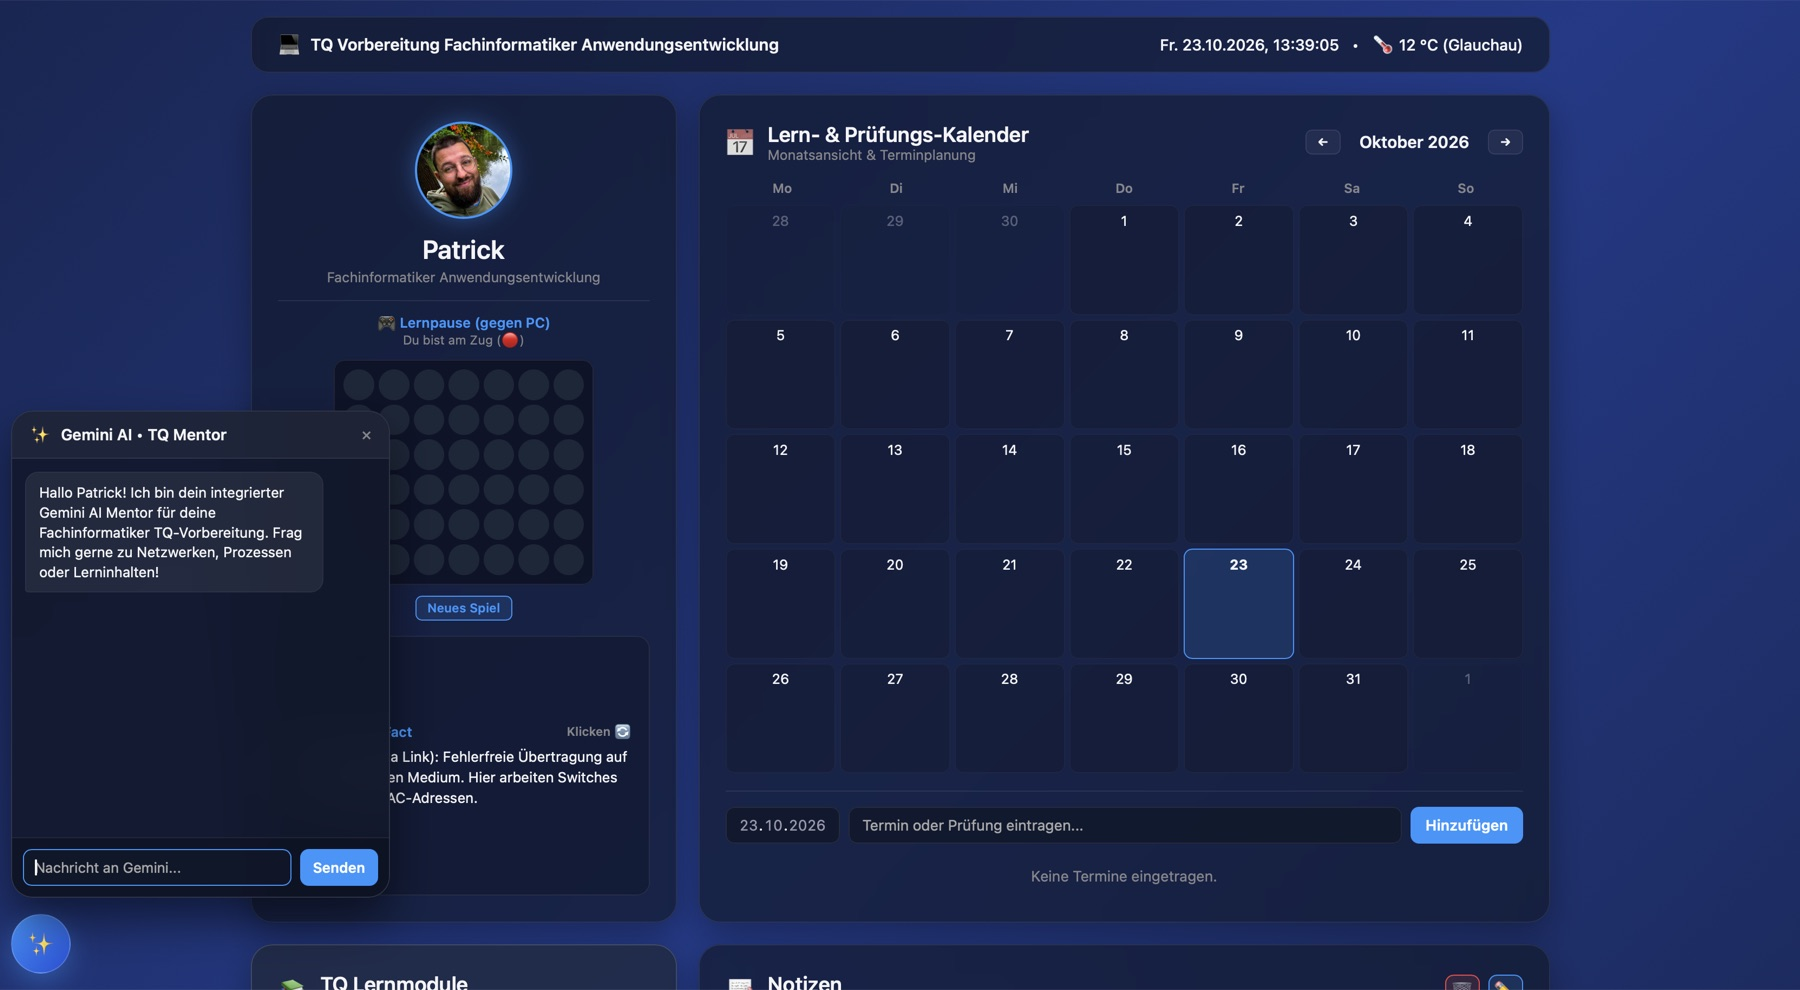
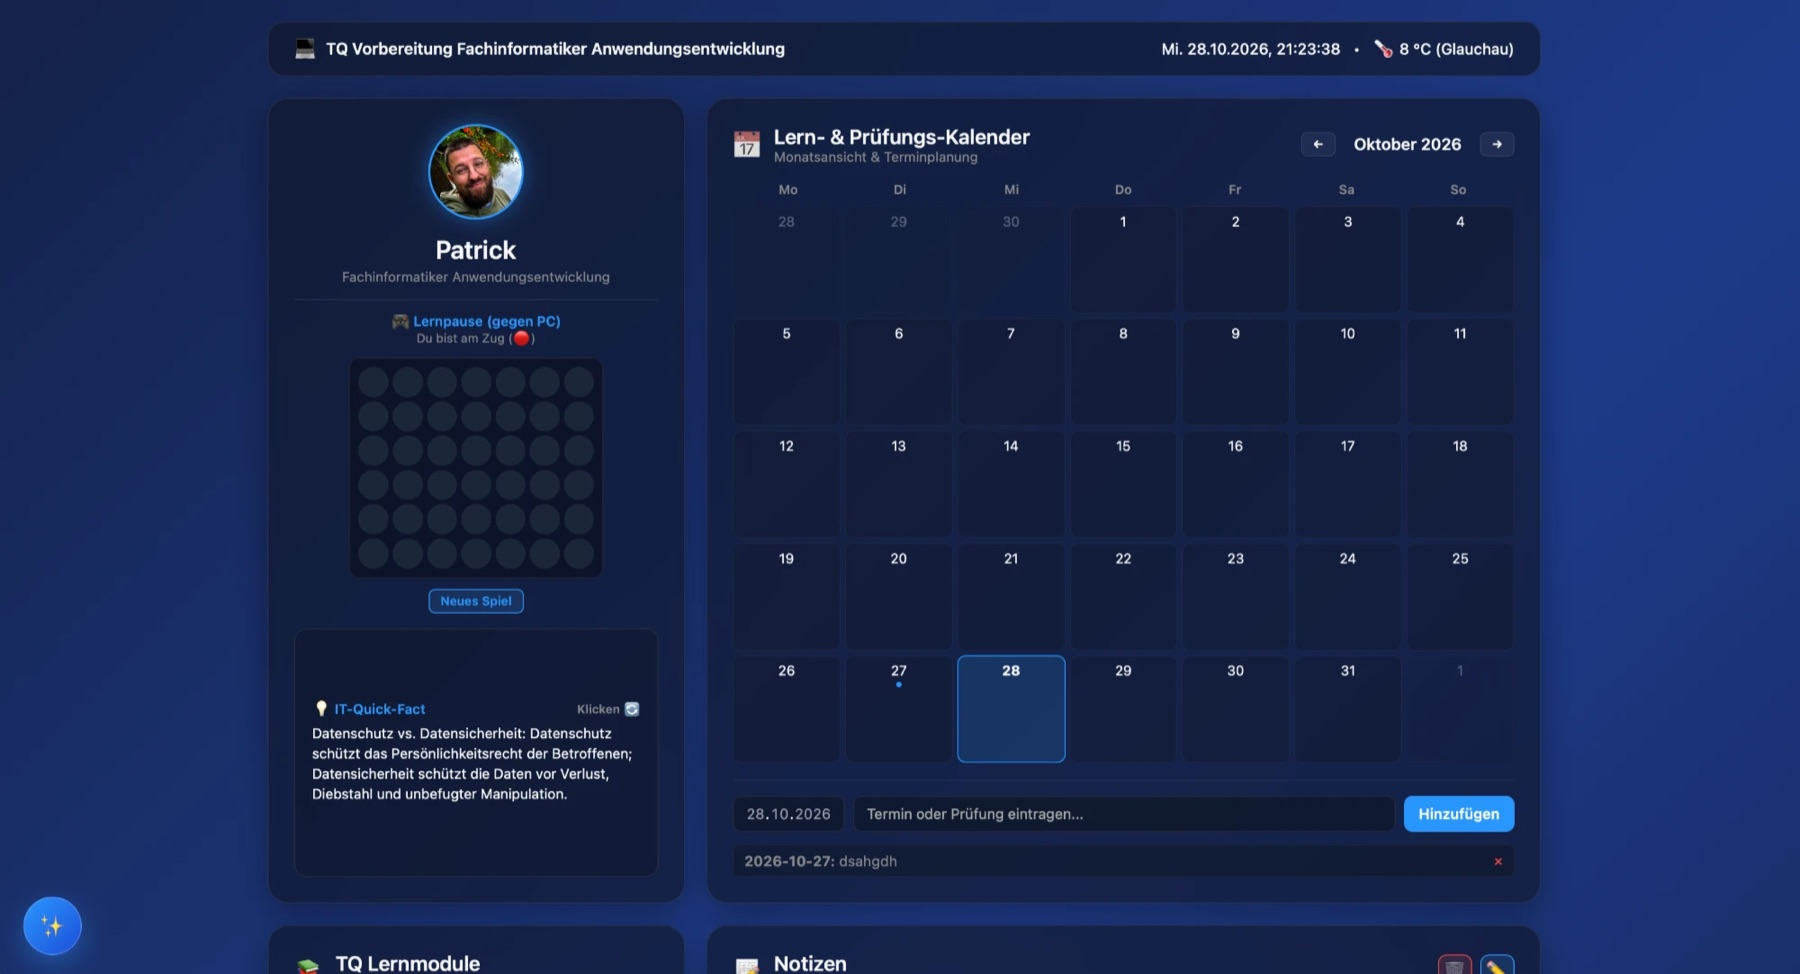
Replace TQ Lern-Hub main screenshot

diff --git a/index.html b/index.html
@@ -163,8 +163,7 @@
             <!-- Featured Project: TQ Lern-Hub -->
             <div class="mb-20 group cursor-pointer">
                 <div class="relative bg-slate-900 rounded-3xl overflow-hidden mb-8 border border-gray-100 shadow-2xl">
-                    <img src="assets/tq-hub-main.jpg" loading="lazy" alt="TQ Lern-Hub Dashboard" class="w-full h-auto group-hover:scale-105 transition-transform duration-700" onerror="this.style.display='none'; this.nextElementSibling.style.display='flex';">
-                    <div class="absolute inset-0 bg-gradient-to-br from-gray-300 to-gray-400 hidden items-center justify-center text-gray-500 italic">TQ-Hub MacBook Mockup</div>
+                    <img src="assets/tq-hub-main.jpg" loading="lazy" alt="TQ Lern-Hub Dashboard mit Lern- und Prüfungskalender" class="w-full h-auto group-hover:scale-105 transition-transform duration-700">
                 </div>
                 <div class="grid md:grid-cols-2 gap-8 items-start">
                     <div>
